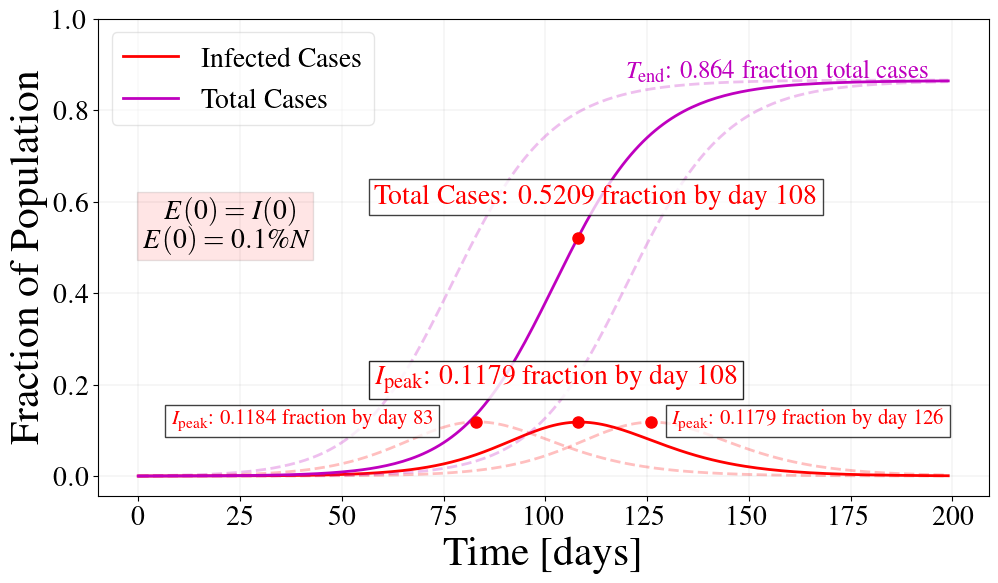
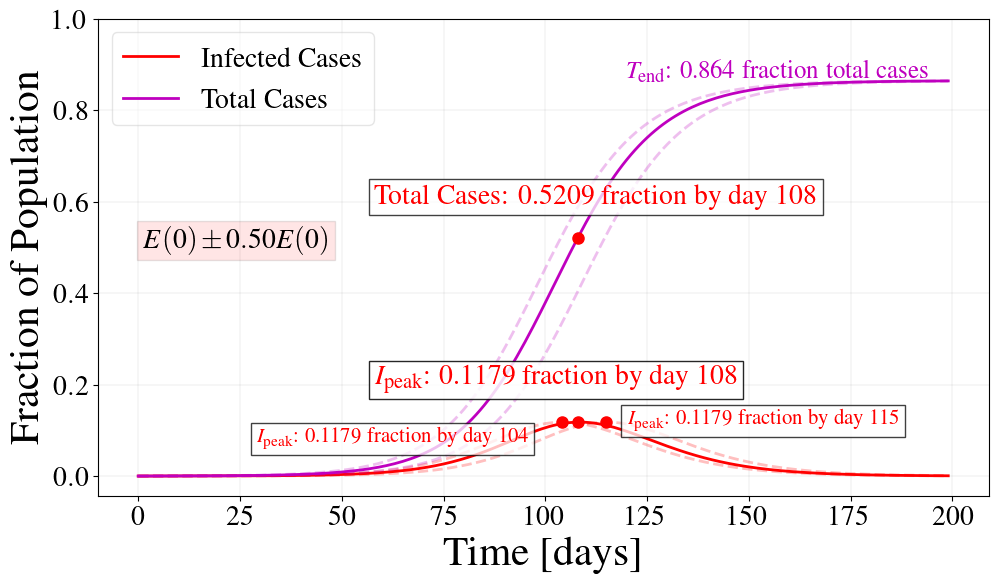
Changes in simulation params

diff --git a/sec3b_sensitivityVary_baselineSEIR_model.py b/sec3b_sensitivityVary_baselineSEIR_model.py
@@ -178,7 +178,7 @@ def main():
 
     ########### Test 3: vary sigma, fix beta and gamma ############
     # Variables for +/- errors on beta
-    error_perc        = 20
+    error_perc        = 10
     err               = error_perc/100
     text_error                    =  r"$\sigma^{-1} \pm %1.2f \sigma^{-1}$"%err
     sim_kwargs['file_extension']  = basefilename + "_errorsVarySigma"
@@ -193,11 +193,9 @@ def main():
     
     ########### Test 4: vary sigma, fix beta and gamma ############
     # Variables for +/- errors on beta
-    error_perc        = 50
-    err               = error_perc/100
+    E_scale = 10
+    E_max   = 0
 
-    # text_error                    =  r"$E(0) \pm %1.2f E(0)$"%err
-    text_error                    =  r"$E(0)=I(0)\\ \quad E(0)=0.1\%N$"
     sim_kwargs['file_extension']  = basefilename + "_errorsVaryE0"
     sim_kwargs['worksheet']       = worksheet
     sim_kwargs['row_num']         = 4
@@ -205,9 +203,15 @@ def main():
     gamma_inv_samples = [gamma_inv, gamma_inv, gamma_inv]
     sigma_inv_samples = [sigma_inv, sigma_inv, sigma_inv]
     I0                = sim_kwargs['I0']
-    E_scale           = 10
-    E0_samples        = [E_scale*I0, E_scale*(1+err)*I0, E_scale*(1-err)*I0]
-    E0_samples        = [E_scale*I0, I0, 0.001]
+    if E_max:
+        text_error        =  r"$E(0)=I(0)\\ \quad E(0)=0.1\%N$"
+        E0_samples        = [E_scale*I0, I0, 0.001]            
+    else:
+        error_perc        = 50
+        err               = error_perc/100
+        text_error        =  r"$E(0) \pm %1.2f E(0)$"%err
+        E0_samples        = [E_scale*I0, E_scale*(1+err)*I0, E_scale*(1-err)*I0]        
+
     run_SEIR_wErrors(beta_samples, gamma_inv_samples, sigma_inv_samples, E0_samples, text_error, **sim_kwargs)
     plt.show()
 

diff --git a/sec4b_sensitivitySample_baselineSEIR_model.py b/sec4b_sensitivitySample_baselineSEIR_model.py
@@ -128,7 +128,7 @@ if __name__ == '__main__':
         gamma, log-Normal (proper distributions)
         gaussian, uniform (not adequate for beta or gamma_{-1})
     """
-    run(prob_type = 'log-normal', days = 500)
-    run(prob_type = 'gamma', days = 500)
-    run(prob_type = 'gaussian', days = 500)
-    run(prob_type = 'uniform', days = 500)
+    run(prob_type = 'gamma', days = 200)
+    # run(prob_type = 'log-normal', days = 500)    
+    # run(prob_type = 'gaussian', days = 500)
+    # run(prob_type = 'uniform', days = 500)

diff --git a/epimodels/sims.py b/epimodels/sims.py
@@ -228,6 +228,7 @@ def getSEIRTestingParams(test_num, prob_type, **sim_kwargs):
         # beta_loc, beta_shape, beta_scale                = 0.22, 10, 0.009
         # gamma_inv_loc, gamma_inv_shape, gamma_inv_scale = 3.8,  10, 0.301
 
+        # From equations: \mu=loc, s=shape, \kappa=scale
         beta_loc, beta_shape, beta_scale                = 0.24, 10, 0.009
         gamma_inv_loc, gamma_inv_shape, gamma_inv_scale = 4,  10, 0.301
         sigma_inv_loc, sigma_inv_shape, sigma_inv_scale = 2.2, 3.35, 0.865
